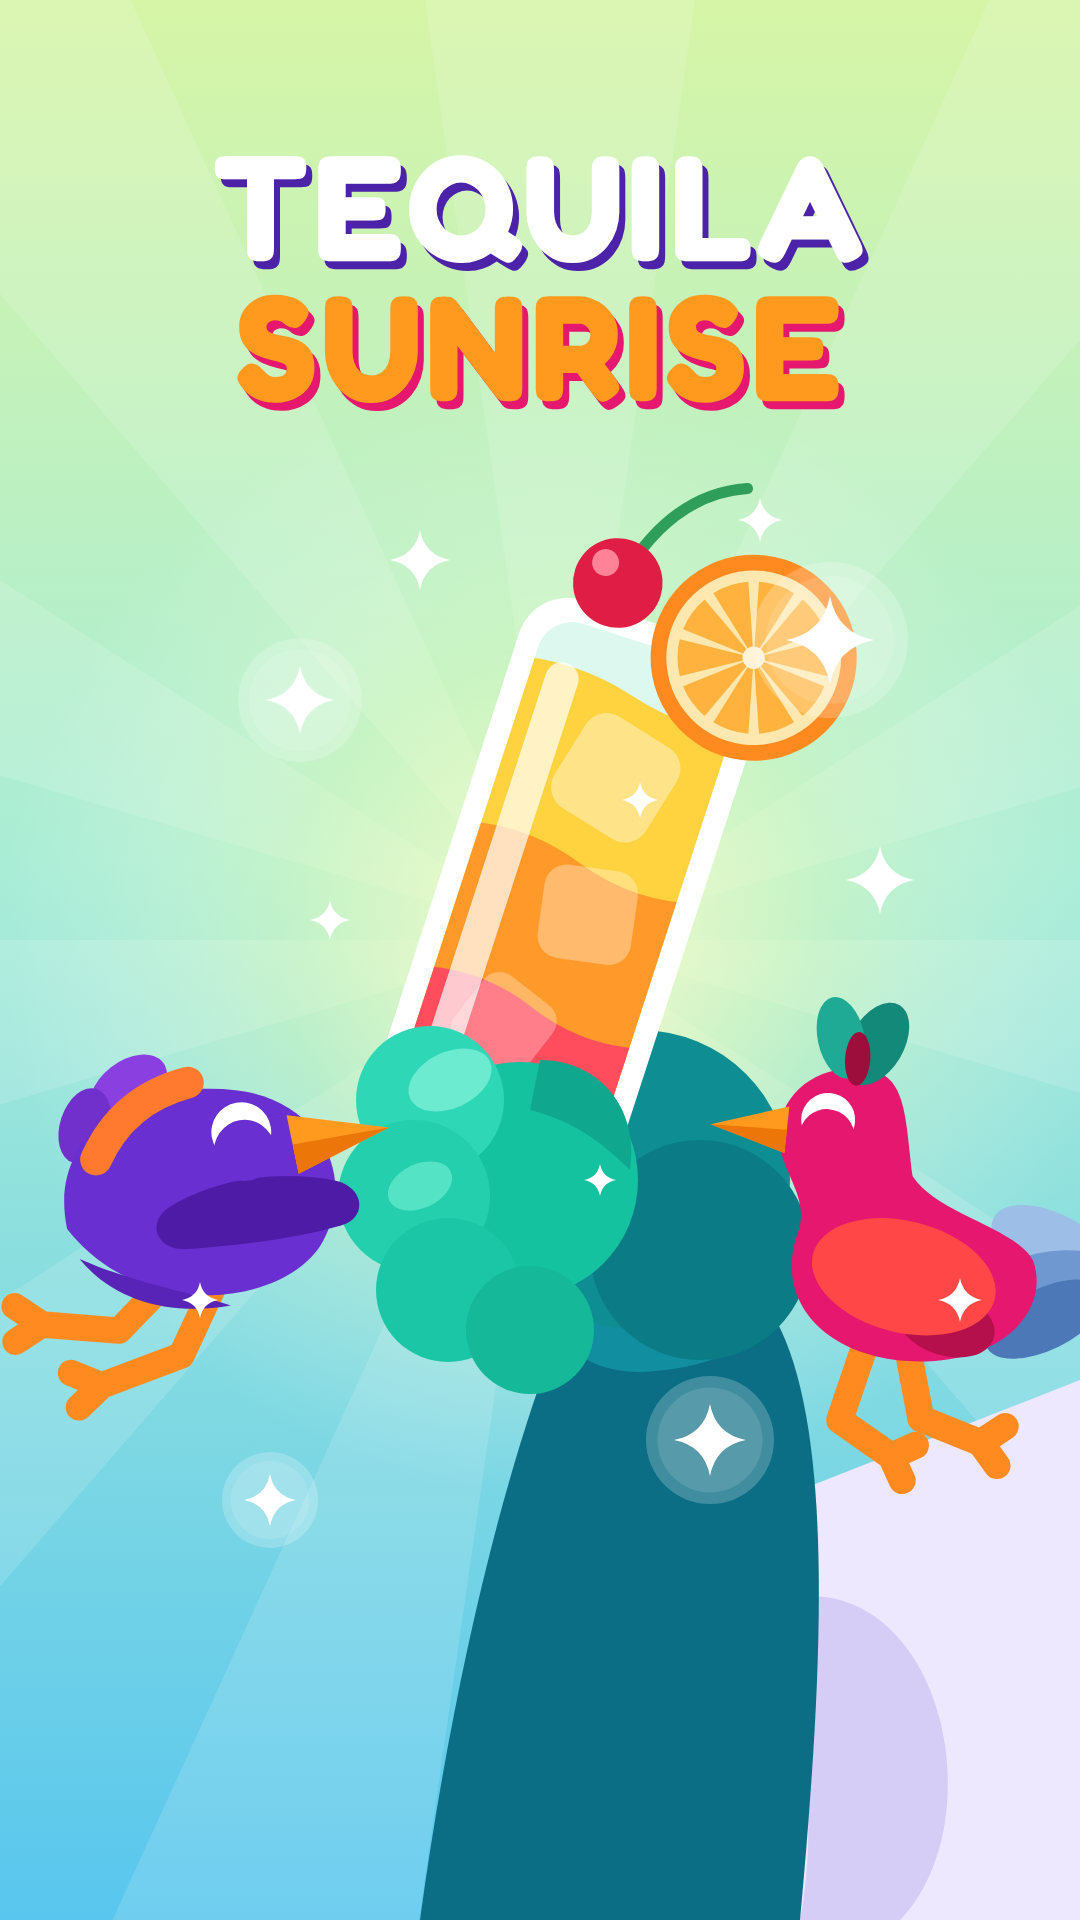
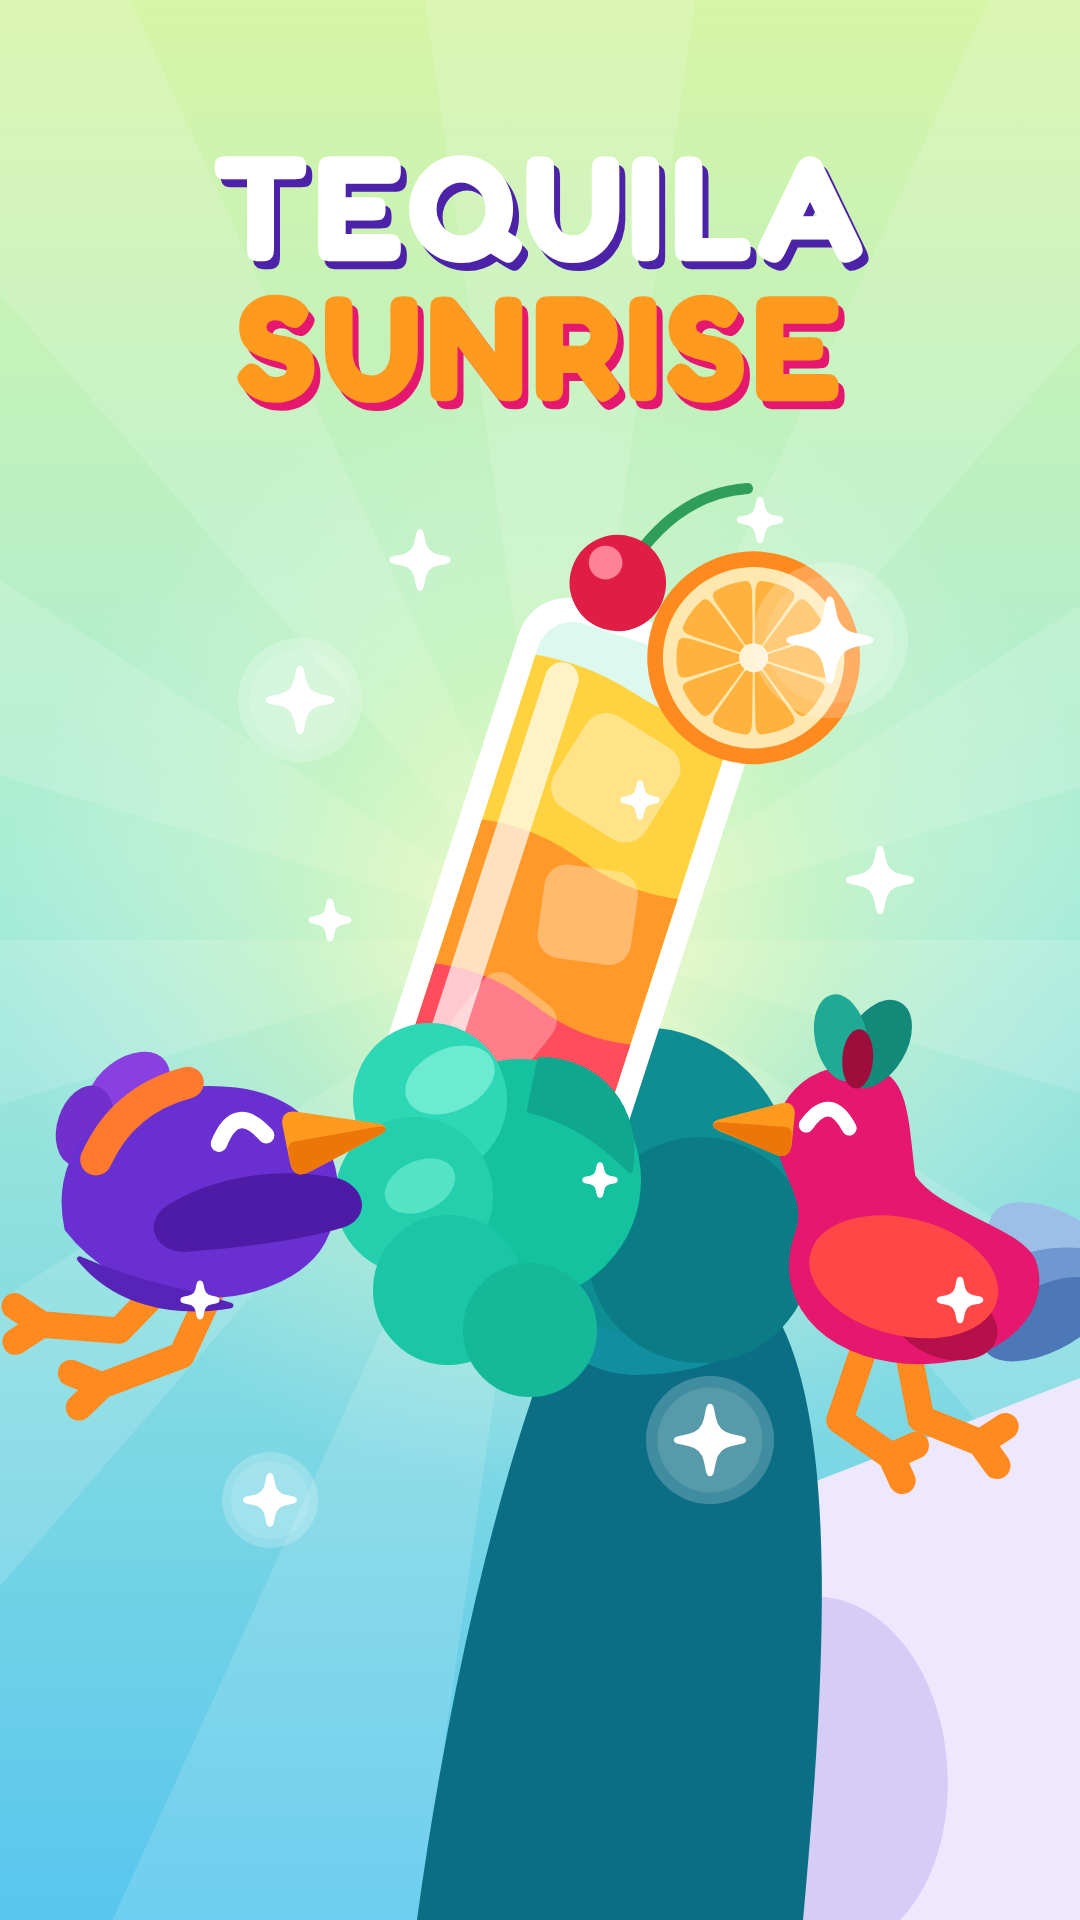
Flat cartoon v2: no sharp corners rule (rounded polygons, arc eyes, round joins)
Claude-Session: https://claude.ai/code/session_01SGWJ4SLMudwh6zrv9sFXaG

diff --git a/cocktails/_mockups/flat-cartoon-v2/hero.html b/cocktails/_mockups/flat-cartoon-v2/hero.html
@@ -6,12 +6,15 @@ html,body{margin:0;background:#000}svg{display:block}</style></head><body>
 // Кадр-герой в языке референса: органичные силуэты, плоская тень наложенными формами, белая кромка только у стекла,
 // перчатка-облако, вогнутые звёздочки в пузырях, толстые штрихи лап. SVG — готов к риггингу групп.
 const W=1080,H=1920;
-const star=(cx,cy,r,k=.16)=>{let d='';for(let i=0;i<4;i++){const a=i*Math.PI/2-Math.PI/2,b=a+Math.PI/2;const tx=cx+Math.cos(a)*r,ty=cy+Math.sin(a)*r,nx=cx+Math.cos(b)*r,ny=cy+Math.sin(b)*r;
-  const qx=cx+(Math.cos(a)+Math.cos(b))*r*k,qy=cy+(Math.sin(a)+Math.sin(b))*r*k;d+=(i?'':`M${tx},${ty}`)+`Q${qx},${qy} ${nx},${ny}`;}return d+'Z';};
+// правило стиля: ни одного острого угла — каждая вершина скругляется дугой радиуса r (или r[i])
+const roundPoly=(pts,r)=>{const n=pts.length;let d='';for(let i=0;i<n;i++){const P=pts[i],A=pts[(i+n-1)%n],B=pts[(i+1)%n];const rr=Array.isArray(r)?r[i]:r;
+  const la=Math.hypot(A[0]-P[0],A[1]-P[1]),lb=Math.hypot(B[0]-P[0],B[1]-P[1]);const k1=Math.min(rr,la/2)/la,k2=Math.min(rr,lb/2)/lb;
+  const p1=[P[0]+(A[0]-P[0])*k1,P[1]+(A[1]-P[1])*k1],p2=[P[0]+(B[0]-P[0])*k2,P[1]+(B[1]-P[1])*k2];d+=(i?`L${p1}`:`M${p1}`)+`Q${P} ${p2}`;}return d+'Z';};
+const star=(cx,cy,r)=>{const pts=[],rad=[];for(let i=0;i<4;i++){const a=i*Math.PI/2-Math.PI/2,m=a+Math.PI/4;pts.push([cx+Math.cos(a)*r,cy+Math.sin(a)*r]);rad.push(r*.16);pts.push([cx+Math.cos(m)*r*.24,cy+Math.sin(m)*r*.24]);rad.push(r*.5);}return roundPoly(pts,rad);};
 const bubble=(x,y,r,sr)=>`<circle cx="${x}" cy="${y}" r="${r}" fill="#fff" fill-opacity=".22"/><circle cx="${x}" cy="${y}" r="${r*.82}" fill="#fff" fill-opacity=".12"/><path d="${star(x,y,sr)}" fill="#fff"/>`;
-let rays='';for(let i=0;i<22;i+=2){const a0=i/22*Math.PI*2,a1=(i+1)/22*Math.PI*2;rays+=`<path d="M560,940 L${560+Math.cos(a0)*2600},${940+Math.sin(a0)*2600} L${560+Math.cos(a1)*2600},${940+Math.sin(a1)*2600}Z" fill="#fff" fill-opacity=".14"/>`;}
+let rays='';for(let i=0;i<22;i+=2){const a0=i/22*Math.PI*2,a1=(i+1)/22*Math.PI*2;rays+=`<path d="${roundPoly([[560,940],[560+Math.cos(a0)*2600,940+Math.sin(a0)*2600],[560+Math.cos(a1)*2600,940+Math.sin(a1)*2600]],60)}" fill="#fff" fill-opacity=".14"/>`;}
 // счастливый глаз: белый круг, снизу «съеден» цветом тела → дуга ^
-const happyEye=(x,y,r,body)=>`<circle cx="${x}" cy="${y}" r="${r}" fill="#fff"/><circle cx="${x}" cy="${y+r*.62}" r="${r*1.02}" fill="${body}"/>`;
+const happyEye=(x,y,r)=>`<path d="M${x-r*.8},${y+r*.25} Q${x},${y-r*1.05} ${x+r*.8},${y+r*.25}" fill="none" stroke="#fff" stroke-width="${r*.55}" stroke-linecap="round"/>`;
 const leg=(d)=>`<path d="${d}" fill="none" stroke="#FF8A1F" stroke-width="30" stroke-linecap="round" stroke-linejoin="round"/>`;
 const toucan=`<g id="toucan" transform="translate(205,1210) rotate(-10) scale(.88)">
   ${leg('M-40,60 L-120,118 L-205,96 M-205,96 L-232,70 M-205,96 L-238,110')}
@@ -22,8 +25,8 @@ const toucan=`<g id="toucan" transform="translate(205,1210) rotate(-10) scale(.8
   <path d="M-150,30 C-120,84 -60,112 10,112 C-30,90 -90,70 -150,30Z" fill="#5824B8"/>
   <path d="M-112,-78 Q-70,-140 6,-146" fill="none" stroke="#FF7A2E" stroke-width="36" stroke-linecap="round"/>
   <path d="M-40,-10 C10,-30 80,-34 150,-8 C182,4 182,40 150,44 C96,50 30,46 -30,40 C-60,36 -70,4 -40,-10Z" fill="#4E1BA6"/>
-  <path d="M110,-90 L222,-56 L112,-22Z" fill="#FF9A1F"/><path d="M111,-56 L222,-56 L112,-22Z" fill="#EC7608"/>
-  ${happyEye(56,-80,34,'#6A2FD0')}
+  <path d="${roundPoly([[106,-94],[222,-56],[108,-20]],[16,14,16])}" fill="#FF9A1F"/><path d="${roundPoly([[108,-56],[220,-56],[108,-20]],[6,10,16])}" fill="#EC7608"/>
+  ${happyEye(56,-80,34)}
 </g>`;
 const flamingo=`<g id="flamingo" transform="translate(880,1230) scale(-1,1) rotate(-4) scale(.9)">
   ${leg('M-40,130 L-60,206 L-128,228 M-128,228 L-154,208 M-128,228 L-148,252')}
@@ -37,8 +40,8 @@ const flamingo=`<g id="flamingo" transform="translate(880,1230) scale(-1,1) rota
   <ellipse cx="18" cy="-206" rx="30" ry="50" transform="rotate(-26 18 -206)" fill="#13897A"/>
   <ellipse cx="58" cy="-210" rx="26" ry="46" transform="rotate(16 58 -210)" fill="#1EAA94"/>
   <ellipse cx="38" cy="-188" rx="14" ry="30" fill="#9E0E3C"/>
-  <path d="M110,-130 L196,-104 L112,-78Z" fill="#FF9A1F"/><path d="M111,-104 L196,-104 L112,-78Z" fill="#EC7608"/>
-  ${happyEye(66,-118,30,'#E5176E')}
+  <path d="${roundPoly([[106,-134],[196,-104],[108,-74]],[14,12,14])}" fill="#FF9A1F"/><path d="${roundPoly([[108,-104],[194,-104],[108,-74]],[6,9,14])}" fill="#EC7608"/>
+  ${happyEye(66,-118,30)}
 </g>`;
 // хайбол с «восходом» — белая кромка, плоские полосы, блик-пилюля, лёд
 const glass=`<g id="glass" transform="translate(565,905) rotate(18) scale(1.12)">
@@ -56,7 +59,7 @@ const glass=`<g id="glass" transform="translate(565,905) rotate(18) scale(1.12)"
     <rect x="-80" y="-206" width="30" height="380" rx="15" fill="#fff" fill-opacity=".7"/>
   </g>
   <g transform="translate(92,-262)"><circle r="92" fill="#FF8A1F"/><circle r="78" fill="#FFE8B0"/>
-    ${Array.from({length:10},(_,k)=>{const a0=k/10*Math.PI*2+.07,a1=(k+1)/10*Math.PI*2-.07;return `<path d="M0,0 L${Math.cos(a0)*68},${Math.sin(a0)*68} A68,68 0 0 1 ${Math.cos(a1)*68},${Math.sin(a1)*68}Z" fill="#FFB33E"/>`}).join('')}
+    ${Array.from({length:10},(_,k)=>{const a0=k/10*Math.PI*2+.07,a1=(k+1)/10*Math.PI*2-.07;const pts=[[Math.cos((a0+a1)/2)*12,Math.sin((a0+a1)/2)*12]];for(let j=0;j<=6;j++){const a=a0+(a1-a0)*j/6;pts.push([Math.cos(a)*66,Math.sin(a)*66]);}return `<path d="${roundPoly(pts,[4,8,3,3,3,3,3,8])}" fill="#FFB33E"/>`}).join('')}
     <circle r="10" fill="#FFF3D6"/></g>
   <path d="M-40,-300 Q-20,-380 40,-404" fill="none" stroke="#2E9E5A" stroke-width="10" stroke-linecap="round"/>
   <circle cx="-44" cy="-288" r="40" fill="#E01E45"/><circle cx="-60" cy="-302" r="12" fill="#FF8296"/>
@@ -74,7 +77,7 @@ const fingers=`<g id="fingers">
   <ellipse cx="420" cy="1186" rx="34" ry="22" transform="rotate(-25 420 1186)" fill="#55E3C6"/>
   <path d="M540,1060 C600,1060 640,1110 630,1170 C600,1140 570,1120 530,1110Z" fill="#0FA88E"/>
 </g>`;
-const ground=`<path d="M520,1600 L1080,1380 L1080,1920 L420,1920Z" fill="#EEE8FF"/>
+const ground=`<path d="${roundPoly([[520,1600],[1160,1350],[1160,2000],[420,2000]],[60,0,0,40])}" fill="#EEE8FF"/>
   <path d="M780,1600 C860,1580 920,1640 940,1720 C960,1800 940,1880 900,1920 L800,1920 C820,1820 800,1700 780,1600Z" fill="#CFC6F5" fill-opacity=".8"/>`;
 const sparkles=[bubble(300,700,62,34),bubble(830,640,78,44),bubble(710,1440,64,36),bubble(270,1500,48,26)].join('')+
   [[420,560,30],[760,520,22],[880,880,34],[640,800,18],[330,920,20],[960,1300,22],[200,1300,18],[600,1180,16]].map(([x,y,r])=>`<path d="${star(x,y,r)}" fill="#fff"/>`).join('');
@@ -86,5 +89,6 @@ ${ground}${arm}${glass}${fingers}${toucan}${flamingo}${sparkles}
 <g font-family="Round" text-anchor="middle"><text x="546" y="268" font-size="150" fill="#4B22A8" letter-spacing="4">TEQUILA</text><text x="540" y="260" font-size="150" fill="#fff" letter-spacing="4">TEQUILA</text>
 <text x="546" y="408" font-size="150" fill="#E5176E" letter-spacing="4">SUNRISE</text><text x="540" y="400" font-size="150" fill="#FF9A1F" letter-spacing="4">SUNRISE</text></g>
 </svg>`;
-document.getElementById('root').innerHTML=svg;window.ready=document.fonts.load('80px Round');
+document.getElementById('root').innerHTML=svg;
+document.querySelectorAll('#root path, #root ellipse, #root circle').forEach(e=>{const f=e.getAttribute('fill');if(!f||f==='none'||f.startsWith('url')||e.getAttribute('fill-opacity'))return;e.setAttribute('stroke',f);e.setAttribute('stroke-width','6');e.setAttribute('stroke-linejoin','round');});window.ready=document.fonts.load('80px Round');
 </script></body></html>

diff --git a/cocktails/_mockups/flat-cartoon-v2/README.md b/cocktails/_mockups/flat-cartoon-v2/README.md
@@ -2,6 +2,7 @@
 
 v1 (`../flat-cartoon`) was a quick sketch from primitives. v2 redraws the hero frame with the reference's actual shape language, authored as SVG:
 
+- **No sharp corners anywhere.** Every polygon vertex is rounded by `roundPoly()` (beaks, star tips, orange segments, floor edge, ray edges). Happy eyes are thick arcs with round caps, not two intersecting circles, which leave needle tips. All solid shapes get a same-colour stroke with round joins, which closes the micro-kinks where curves meet.
 - **Organic silhouettes.** Each bird is one smooth body path (head → neck → chest → tail), not a circle with a beak glued on. Crests and tails are clusters of rounded lobes.
 - **Flat form shading.** A darker same-hue shape is overlaid for shadow (belly, wing back) and a lighter blob for highlight. No gradients on characters; gradients only in the background and glow.
 - **Selective white rim.** Only the glass gets a thick white rounded outline, as the reference's test tube does. Everything else has no outlines.
